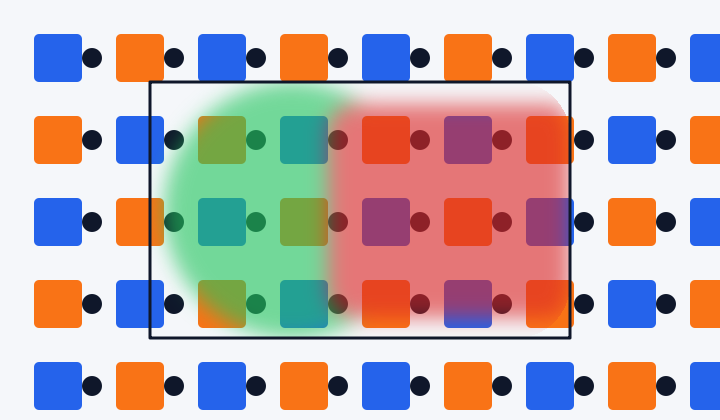
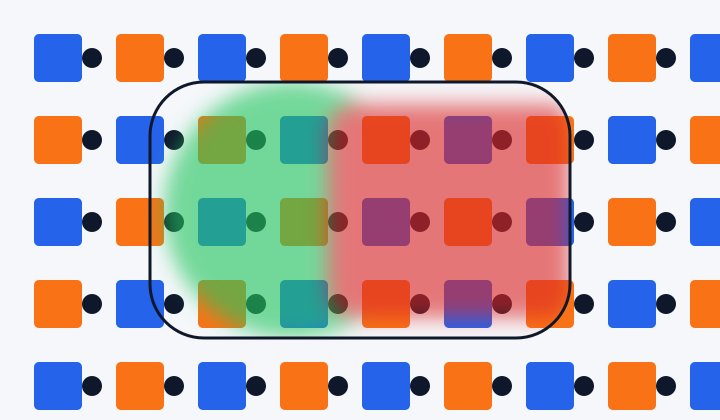
Refactor filter layer handling to use sample_region for improved clarity and functionality; update related methods and tests.

diff --git a/src/cpu/computes/filter.rs b/src/cpu/computes/filter.rs
@@ -1,4 +1,4 @@
-use peniko::kurbo::{Point, Shape};
+use peniko::kurbo::Shape;
 
 use crate::shared::{
     bounds::Bounds,
@@ -31,8 +31,12 @@ pub(crate) fn apply(image: &mut Image, filter: &Filter, bounds: Bounds) {
     }
 }
 
-pub(crate) fn filtered_region_bounds(filter: &Filter, region: &Region, canvas: Bounds) -> Bounds {
-    let bounds = region_bounds(region);
+pub(crate) fn filtered_region_bounds(
+    filter: &Filter,
+    sample_region: &Region,
+    canvas: Bounds,
+) -> Bounds {
+    let bounds = region_bounds(sample_region);
     let outset = match filter {
         Filter::Blur(radius) => blur_outset(*radius),
         Filter::DropShadow {
@@ -44,42 +48,6 @@ pub(crate) fn filtered_region_bounds(filter: &Filter, region: &Region, canvas: B
         _ => 0,
     };
     bounds.outset(outset).intersect(canvas)
-}
-
-pub(crate) fn rasterize_region_mask(region: &Region, bounds: Bounds) -> Image {
-    let mut image = Image::new(bounds.width(), bounds.height(), peniko::Color::TRANSPARENT);
-    match region {
-        Region::Rect { rect, radius } => {
-            for y in 0..image.height {
-                let py = bounds.y0 as f64 + y as f64 + 0.5;
-                for x in 0..image.width {
-                    let px = bounds.x0 as f64 + x as f64 + 0.5;
-                    if point_in_rounded_rect(px, py, *rect, *radius) {
-                        let ix = (y * image.width + x) as usize;
-                        image.pixels[ix] = rgba8_pack([255, 255, 255, 255]);
-                    }
-                }
-            }
-        }
-        Region::Path {
-            path,
-            transform,
-            tolerance: _,
-        } => {
-            let path = *transform * path;
-            for y in 0..image.height {
-                let py = bounds.y0 as f64 + y as f64 + 0.5;
-                for x in 0..image.width {
-                    let px = bounds.x0 as f64 + x as f64 + 0.5;
-                    if path.contains(Point::new(px, py)) {
-                        let ix = (y * image.width + x) as usize;
-                        image.pixels[ix] = rgba8_pack([255, 255, 255, 255]);
-                    }
-                }
-            }
-        }
-    }
-    image
 }
 
 fn apply_color_filter_pixel(px: u32, filter: &Filter, amount: f32) -> u32 {
@@ -313,75 +281,6 @@ fn region_bounds(region: &Region) -> Bounds {
             )
         }
     }
-}
-
-fn point_in_rounded_rect(
-    x: f64,
-    y: f64,
-    rect: peniko::kurbo::Rect,
-    radius: crate::shared::sdf::rect::Radius,
-) -> bool {
-    if !rect.contains(Point::new(x, y)) {
-        return false;
-    }
-    let w = (rect.x1 - rect.x0).max(0.0);
-    let h = (rect.y1 - rect.y0).max(0.0);
-    let corner_radius = |r: f32| (r as f64).max(0.0).min(w * 0.5).min(h * 0.5);
-
-    let tests = [
-        (
-            rect.x0,
-            rect.y0,
-            radius.top_left,
-            x < rect.x0 + corner_radius(radius.top_left)
-                && y < rect.y0 + corner_radius(radius.top_left),
-        ),
-        (
-            rect.x1,
-            rect.y0,
-            radius.top_right,
-            x > rect.x1 - corner_radius(radius.top_right)
-                && y < rect.y0 + corner_radius(radius.top_right),
-        ),
-        (
-            rect.x0,
-            rect.y1,
-            radius.bottom_left,
-            x < rect.x0 + corner_radius(radius.bottom_left)
-                && y > rect.y1 - corner_radius(radius.bottom_left),
-        ),
-        (
-            rect.x1,
-            rect.y1,
-            radius.bottom_right,
-            x > rect.x1 - corner_radius(radius.bottom_right)
-                && y > rect.y1 - corner_radius(radius.bottom_right),
-        ),
-    ];
-
-    for (cx, cy, r, active) in tests {
-        if !active {
-            continue;
-        }
-        let r = corner_radius(r);
-        if r <= 0.0 {
-            return true;
-        }
-        let center_x = if cx == rect.x0 {
-            rect.x0 + r
-        } else {
-            rect.x1 - r
-        };
-        let center_y = if cy == rect.y0 {
-            rect.y0 + r
-        } else {
-            rect.y1 - r
-        };
-        let dx = x - center_x;
-        let dy = y - center_y;
-        return dx * dx + dy * dy <= r * r;
-    }
-    true
 }
 
 fn blur_outset(radius: f32) -> i32 {

diff --git a/src/cpu/renderer.rs b/src/cpu/renderer.rs
@@ -310,10 +310,13 @@ impl Renderer {
         target_bounds: Bounds,
     ) {
         match offscreen.layer {
-            Layer::Filter { filter, region } => {
+            Layer::Filter {
+                filter,
+                sample_region,
+            } => {
                 let bounds = self.filter.filtered_region_bounds(
                     filter,
-                    region,
+                    sample_region,
                     Bounds::canvas(scene.width, scene.height),
                 );
                 if bounds.is_empty() {
@@ -321,8 +324,9 @@ impl Renderer {
                 }
                 let mut image = Image::new(bounds.width(), bounds.height(), Color::TRANSPARENT);
                 self.execute_ops(scene, plan, offscreen.children, &mut image, bounds);
+                println!("sample_region: {:?}, bounds: {:?}", sample_region, bounds);
                 self.filter.prepare(&mut image, filter, bounds).run();
-                let mut mask = self.filter.rasterize_region_mask(region, bounds);
+                let mut mask = Image::new(bounds.width(), bounds.height(), Color::WHITE);
                 self.apply_outer_clip_stack_to_mask(
                     scene,
                     plan,
@@ -334,7 +338,7 @@ impl Renderer {
             }
             Layer::Backdrop {
                 filter: _,
-                region: _,
+                sample_region: _,
             } => todo!(),
             _ => unreachable!(),
         }
@@ -460,7 +464,7 @@ mod tests {
 
     use super::Renderer;
     use crate::{
-        FillRule, Scene,
+        FillRule, Radius, Scene,
         shared::layer::{filter::Filter, region::Region},
     };
 
@@ -604,6 +608,34 @@ mod tests {
 
         assert_eq!(renderer.image().rgba8_at(70, 48), [255, 0, 0, 255]);
         assert_eq!(renderer.image().rgba8_at(74, 48), [255, 255, 255, 255]);
+    }
+
+    #[test]
+    fn filter_blur_outputs_expanded_bounds() {
+        let mut scene = Scene::new(96, 96);
+        let sample_rect = Rect::new(32.0, 32.0, 64.0, 64.0);
+        scene.push_filter_layer(
+            Filter::Blur(4.0),
+            Region::rect(sample_rect, Radius::all(0.0)),
+        );
+        scene.push_path(
+            sample_rect.to_path(0.0),
+            Color::from_rgb8(255, 0, 0),
+            Affine::IDENTITY,
+            FillRule::NonZero,
+            0.0,
+        );
+        scene.pop_layer();
+
+        let mut renderer = Renderer::new(96, 96, Color::WHITE);
+        renderer.render(&scene);
+
+        let expanded_px = renderer.image().rgba8_at(28, 48);
+        assert_eq!(expanded_px[0], 255);
+        assert!(
+            expanded_px[1] < 245 && expanded_px[2] < 245,
+            "expected blur outside sample region, got {expanded_px:?}"
+        );
     }
 
     #[test]

diff --git a/src/scene.rs b/src/scene.rs
@@ -309,11 +309,12 @@ impl Scene {
         self.push_blend_layer_inner(path, transform, tolerance, Blend::new(mix, compose));
     }
 
-    /// Adds an offscreen filter group clipped by `region`.
+    /// Adds an offscreen filter group sampled from `sample_region`.
     ///
-    /// The CPU renderer uses this for real filter semantics instead of baking
-    /// example-specific filtered pixels into fixtures.
-    pub fn push_filter_layer(&mut self, filter: Filter, region: Region) {
+    /// Filters derive their final output bounds from this region. Blur and
+    /// drop-shadow expand it internally so their output is not clipped back to
+    /// the original geometry.
+    pub fn push_filter_layer(&mut self, filter: Filter, sample_region: Region) {
         self.ensure_command_root();
         let children = self.command_lists.len();
         self.command_lists.push(CommandList::default());
@@ -321,7 +322,10 @@ impl Scene {
             .commands
             .push(Command::Layer {
                 draw: 0,
-                layer: Layer::Filter { filter, region },
+                layer: Layer::Filter {
+                    filter,
+                    sample_region,
+                },
                 children,
             });
         self.command_stack.push(children);

diff --git a/examples/common/layer_filter_scenes.rs b/examples/common/layer_filter_scenes.rs
@@ -47,12 +47,12 @@ pub fn filter_clip_opacity_scene() -> Scene {
     background(&mut scene);
 
     let clip = Rect::new(150.0, 82.0, 570.0, 338.0);
-    scene.push_filter_layer(Filter::Blur(10.0), Region::rect(clip, Radius::all(54.0)));
     scene.push_clip_layer(
         crate::common::rect_path(clip, Radius::all(54.0)),
         Default::default(),
         0.1,
     );
+    scene.push_filter_layer(Filter::Blur(10.0), Region::rect(clip, Radius::all(54.0)));
     scene.push_opacity_layer(
         crate::common::rect_path(clip, Radius::all(54.0)),
         Default::default(),
@@ -77,6 +77,7 @@ pub fn filter_clip_opacity_scene() -> Scene {
     stroke_rect(
         &mut scene,
         clip,
+        Radius::all(54.0),
         Stroke::new(3.0),
         Color::from_rgb8(15, 23, 42),
     );
@@ -164,6 +165,7 @@ pub fn backdrop_blur_scene() -> Scene {
     stroke_rect(
         &mut scene,
         panel,
+        Radius::all(34.0),
         Stroke::new(2.0),
         Color::from_rgba8(255, 255, 255, 220),
     );
@@ -211,6 +213,7 @@ pub fn liquid_glass_scene() -> Scene {
     stroke_rect(
         &mut scene,
         panel,
+        Radius::all(42.0),
         Stroke::new(2.0),
         Color::from_rgba8(255, 255, 255, 180),
     );

diff --git a/src/wgpu/renderer.rs b/src/wgpu/renderer.rs
@@ -209,10 +209,13 @@ impl Renderer {
         _target: &mut GpuImageBuffer,
     ) {
         match layer {
-            Layer::Filter { filter: _, region } => todo!(),
+            Layer::Filter {
+                filter: _,
+                sample_region: _,
+            } => todo!(),
             Layer::Backdrop {
                 filter: _,
-                region: _,
+                sample_region: _,
             } => todo!(),
             Layer::Clip(_) | Layer::ClipSdf { .. } => todo!(),
             Layer::Opacity(_) | Layer::Blend(_) => todo!(),

diff --git a/src/shared/layer.rs b/src/shared/layer.rs
@@ -14,11 +14,20 @@ use crate::shared::{
 #[derive(Clone, Debug)]
 pub enum Layer {
     Clip(Clip),
-    ClipSdf { sdf: Sdf, bounds: Bounds },
+    ClipSdf {
+        sdf: Sdf,
+        bounds: Bounds,
+    },
     Opacity(Opacity),
     Blend(Blend),
-    Filter { filter: Filter, region: Region },
-    Backdrop { filter: Filter, region: Region },
+    Filter {
+        filter: Filter,
+        sample_region: Region,
+    },
+    Backdrop {
+        filter: Filter,
+        sample_region: Region,
+    },
 }
 
 #[derive(Clone, Copy, Debug, Eq, PartialEq)]

diff --git a/examples/even_odd.rs b/examples/even_odd.rs
@@ -39,6 +39,7 @@ fn main() -> Result<(), Box<dyn std::error::Error>> {
     common::stroke_rect(
         &mut scene,
         Rect::new(60.5, 60.5, 220.5, 220.5),
+        Radius::all(0.0),
         Stroke::new(3.0),
         Color::from_rgb8(15, 23, 42),
     );
@@ -52,6 +53,7 @@ fn main() -> Result<(), Box<dyn std::error::Error>> {
     common::stroke_rect(
         &mut scene,
         Rect::new(300.5, 60.5, 460.5, 220.5),
+        Radius::all(0.0),
         Stroke::new(3.0),
         Color::from_rgb8(15, 23, 42),
     );

diff --git a/src/shared/layer/region.rs b/src/shared/layer/region.rs
@@ -2,9 +2,10 @@ use peniko::kurbo::{Affine, BezPath, Rect};
 
 use crate::shared::sdf::rect::Radius;
 
-/// Geometry that defines where a backdrop filter is visible.
+/// Geometry used to derive the source area sampled by a layer filter.
 ///
-/// This region is independent of content drawn inside the backdrop layer.
+/// Filters may expand this area internally; for example blur needs pixels
+/// outside the original sample region so the filtered output can spread.
 #[derive(Clone, Debug)]
 pub enum Region {
     Rect {

diff --git a/src/cpu/pipelines/filter.rs b/src/cpu/pipelines/filter.rs
@@ -42,13 +42,9 @@ impl FilterCpuPipeline {
     pub fn filtered_region_bounds(
         &self,
         filter: &Filter,
-        region: &Region,
+        sample_region: &Region,
         canvas: Bounds,
     ) -> Bounds {
-        filter::filtered_region_bounds(filter, region, canvas)
-    }
-
-    pub fn rasterize_region_mask(&self, region: &Region, bounds: Bounds) -> Image {
-        filter::rasterize_region_mask(region, bounds)
+        filter::filtered_region_bounds(filter, sample_region, canvas)
     }
 }

diff --git a/examples/common/mod.rs b/examples/common/mod.rs
@@ -87,9 +87,9 @@ pub fn fill_rect(scene: &mut Scene, rect: Rect, radius: Radius, brush: impl Into
     );
 }
 
-pub fn stroke_rect(scene: &mut Scene, rect: Rect, stroke: Stroke, color: Color) {
+pub fn stroke_rect(scene: &mut Scene, rect: Rect, radius: Radius, stroke: Stroke, color: Color) {
     scene.push_stroke(
-        rect_path(rect, Radius::all(0.0)),
+        rect_path(rect, radius),
         stroke,
         color,
         Affine::IDENTITY,
